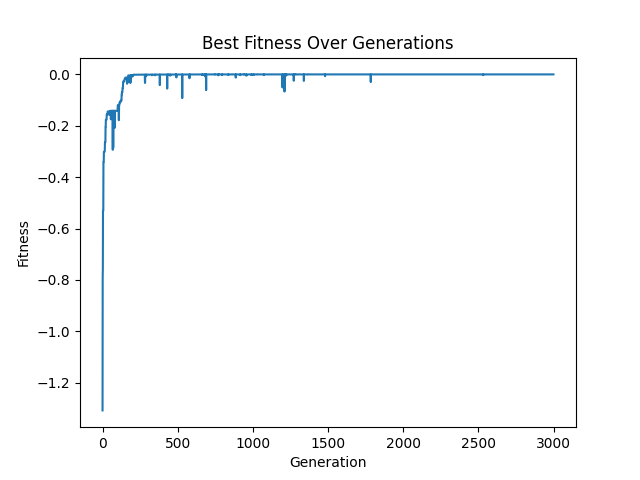
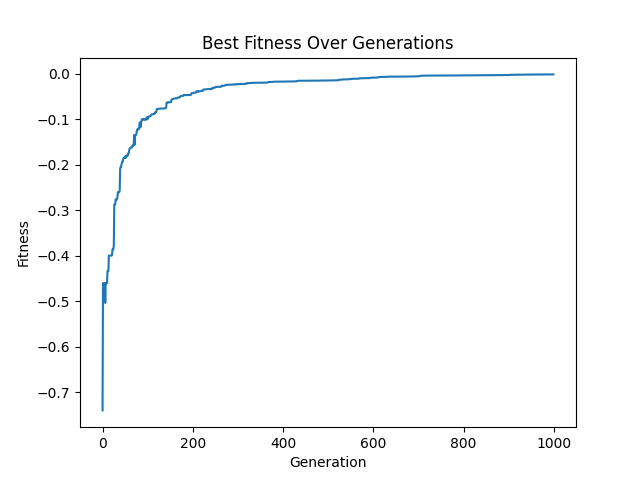
new weight mutations that don't include 0, batch norm parameter in MLP, outdated initializers in precisions.py

diff --git a/precisions.py b/precisions.py
@@ -28,6 +28,9 @@ class f32:
     def mutate(self, x):
         return x + torch.randn_like(x, dtype=torch.float32, device=x.device) * self.std
     
+    def initializer(self, shape):
+        return self.mutate(torch.empty(shape, dtype=torch.float32))
+
 class i8:
     def __init__(self, std=1):
         self.precision = 'i8'
@@ -44,14 +47,28 @@ class i8:
     # Performs a gaussian mutation with default std 1 which is
     # then rounded to nearest integer before casting to int8
     def mutate(self, x):
-        mutated = x + torch.randn_like(x, dtype=torch.float32, device=x.device) * self.std
+        mutations = torch.randn_like(x, dtype=torch.float32, device=x.device) * self.std
+        mutations[mutations > 0] += 1
+        mutations[mutations < 0] -= 1
+        mutated = torch.round(x + mutations)
         # Round to nearest integer first
-        mutated_rounded = torch.round(mutated)
         # Clamp to int8 range [-128, 127] before casting to int8
-        mutated_clamped = torch.clamp(mutated_rounded, -128, 127)
+        mutated_clamped = torch.clamp(mutated, -128, 127)
         return mutated_clamped.to(torch.int8)
 
-class i4:
+    def initializer(self, shape):
+        # Initialize with Xavier uniform and quantize to int8
+        weight = torch.empty(shape, dtype=torch.float32)
+        torch.nn.init.xavier_uniform_(weight)
+        # Quantize to signed 8-bit integers
+        max_val = weight.abs().max()
+        scale = max_val / (2**(8-1) - 1)  # Scale for int8 [-128, 127]
+        weight_q = torch.round(weight / scale)
+        weight_q = torch.clamp(weight_q, -128, 127)
+        return weight_q.to(torch.int8)
+
+class i4:    
+
     def __init__(self, std=1):
         self.precision = 'i4'
         self.dtype = torch.float32
@@ -69,12 +86,23 @@ class i4:
     # Performs a gaussian mutation with default std 1 which is
     # then rounded to nearest integer before clamping and casting to int8
     def mutate(self, x):
-        mutated = x + torch.randn_like(x, dtype=torch.float32, device=x.device) * self.std
-        # Round to nearest integer first
-        mutated_rounded = torch.round(mutated)
-        # Clamp to int4 range [-8, 7] before casting to int8
-        mutated_clamped = torch.clamp(mutated_rounded, -8, 7)
+        mutations = torch.randn_like(x, dtype=torch.float32, device=x.device) * self.std
+        mutations[mutations > 0] += 1
+        mutations[mutations < 0] -= 1
+        mutated = torch.round(x + mutations)
+        mutated_clamped = torch.clamp(mutated, -8, 7)
         return mutated_clamped.to(torch.int8)
+
+    def initializer(self, shape):
+        # Initialize with Xavier uniform and quantize to int4
+        weight = torch.empty(shape, dtype=torch.float32)
+        torch.nn.init.xavier_uniform_(weight)
+        # Quantize to signed 4-bit integers [-8, 7]
+        max_val = weight.abs().max()
+        scale = max_val / (2**(4-1) - 1)  # Scale for int4 [-8, 7]
+        weight_q = torch.round(weight / scale)
+        weight_q = torch.clamp(weight_q, -8, 7)
+        return weight_q.to(torch.int8)
 
 class i2:
     def __init__(self, std=1):
@@ -95,12 +123,23 @@ class i2:
     # Performs a gaussian mutation with default std 1 which is
     # then rounded to nearest integer before clamping and casting to int8
     def mutate(self, x):
-        mutated = x + torch.randn_like(x, dtype=torch.float32, device=x.device) * self.std
-        # Round to nearest integer first
-        mutated_rounded = torch.round(mutated)
-        # Clamp to int2 range [-2, 1] before casting to int8
-        mutated_clamped = torch.clamp(mutated_rounded, -2, 1)
+        mutations = torch.randn_like(x, dtype=torch.float32, device=x.device) * self.std
+        mutations[mutations > 0] += 1
+        mutations[mutations < 0] -= 1
+        mutated = torch.round(x + mutations)
+        mutated_clamped = torch.clamp(mutated, -2, 1)
         return mutated_clamped.to(torch.int8)
+
+    def initializer(self, shape):
+        # Initialize with Xavier uniform and quantize to int2
+        weight = torch.empty(shape, dtype=torch.float32)
+        torch.nn.init.xavier_uniform_(weight)
+        # Quantize to signed 2-bit integers [-2, 1]
+        max_val = weight.abs().max()
+        scale = max_val / (2**(2-1) - 1)  # Scale for int2 [-2, 1]
+        weight_q = torch.round(weight / scale)
+        weight_q = torch.clamp(weight_q, -2, 1)
+        return weight_q.to(torch.int8)
 
 class binary:
     def __init__(self, std=0):

diff --git a/MLP.py b/MLP.py
@@ -18,7 +18,7 @@ as it is used for genetic algorithm optimization.
 '''
 class MLP(nn.Module):
     def __init__(self, shapes, activation=F.relu, output_activation=None, precision='f32',
-                    bias_std=1, mutation_std=1, scale_std=0.1):
+                    bias_std=1, mutation_std=1, scale_std=0.1, bn=False):
         
         super(MLP, self).__init__()
         self.shapes = shapes
@@ -32,13 +32,14 @@ class MLP(nn.Module):
         self.biases = nn.ParameterList()
         self.scales = nn.ParameterList()
         self.fitness = float('-inf')
+        self.bn = bn
 
         # Ensure all tensors are created on the correct device
         device = torch.device('cuda' if torch.cuda.is_available() else 'cpu')
 
         for i in range(len(shapes)-1):
             # Create weight matrix with specified precision
-            weight_tensor = self.precision.mutate(torch.zeros(shapes[i + 1], shapes[i], device=device))
+            weight_tensor = self.precision.mutate(torch.zeros((shapes[i + 1], shapes[i]), device=device))
             self.weights.append(nn.Parameter(weight_tensor, requires_grad=False))
             # Create bias vector with float32 precision
             bias_tensor = torch.zeros(shapes[i + 1], device=device)
@@ -58,7 +59,13 @@ class MLP(nn.Module):
             x = x.to(device)
 
         for i in range(len(self.weights)):
-            x = torch.matmul(x, self.precision.cast_from(self.weights[i]).T) * self.scale_precision.cast_from(self.scales[i]) + self.bias_precision.cast_from(self.biases[i])
+            x = torch.matmul(x, self.precision.cast_from(self.weights[i]).T)
+
+            if self.bn:
+                # Apply batch norm without learnable parameters
+                x = F.batch_norm(x, torch.zeros_like(x.mean(dim=0)), torch.ones_like(x.var(dim=0)),
+                                None, None, training=False)
+            x = x* self.scale_precision.cast_from(self.scales[i]) + self.bias_precision.cast_from(self.biases[i])
             
             if (i < len(self.weights) - 1):
                 x = self.activation(x)

diff --git a/two_moons.py b/two_moons.py
@@ -28,13 +28,13 @@ shapes = [2, 64, 64, 1]
 activation = torch.tanh
 output_activation = lambda x: x
 precision = 'i2'
-bias_std = 0.1
-mutation_std = 1
-scale_std = 0.1
+bias_std = 1
+mutation_std = 0.01
+scale_std = 0.
 
 # Initialize MGA
-population_size = 5
-num_generations = 3000
+population_size = 10
+num_generations = 1000
 mutation_rate = 0 # Defaults to 1/num_parameters
 mga = MGA(population_size, num_generations, mutation_rate, population_size)
 
